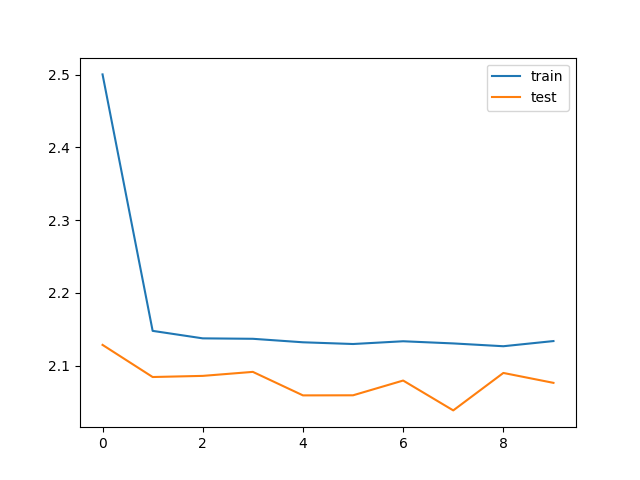
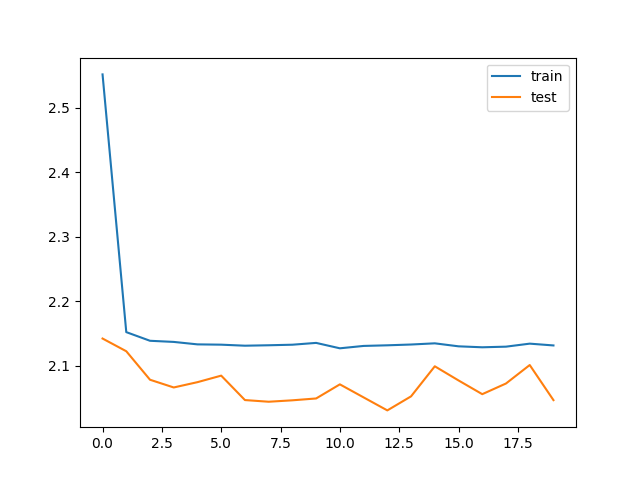
add results

diff --git a/vision-a3/transfer_cnn.py b/vision-a3/transfer_cnn.py
@@ -20,6 +20,7 @@ OUTPUT_DIR = Path("output")
 def main(args: argparse.Namespace) -> None:
     BATCH_SIZE = args.batch_size
     LEARNING_RATE = args.learning_rate
+    EPOCHS = args.epochs
 
     # Load the CIFAR10 dataset (NB: Make sure input size is right!)
     x_train, y_train, x_test, y_test = load_data.load_cifar10()
@@ -31,7 +32,7 @@ def main(args: argparse.Namespace) -> None:
     history = model.fit(
         x_train,
         y_train,
-        epochs=10,
+        epochs=EPOCHS,
         batch_size=BATCH_SIZE,
         validation_data=(x_test, y_test),
     )
@@ -50,5 +51,6 @@ if __name__ == "__main__":
     )
     parser.add_argument("--learning_rate", type=float, default=0.001)
     parser.add_argument("--batch_size", type=int, default=32)
+    parser.add_argument("--epochs", type=int, default=10)
     args = parser.parse_args()
     main(args)
